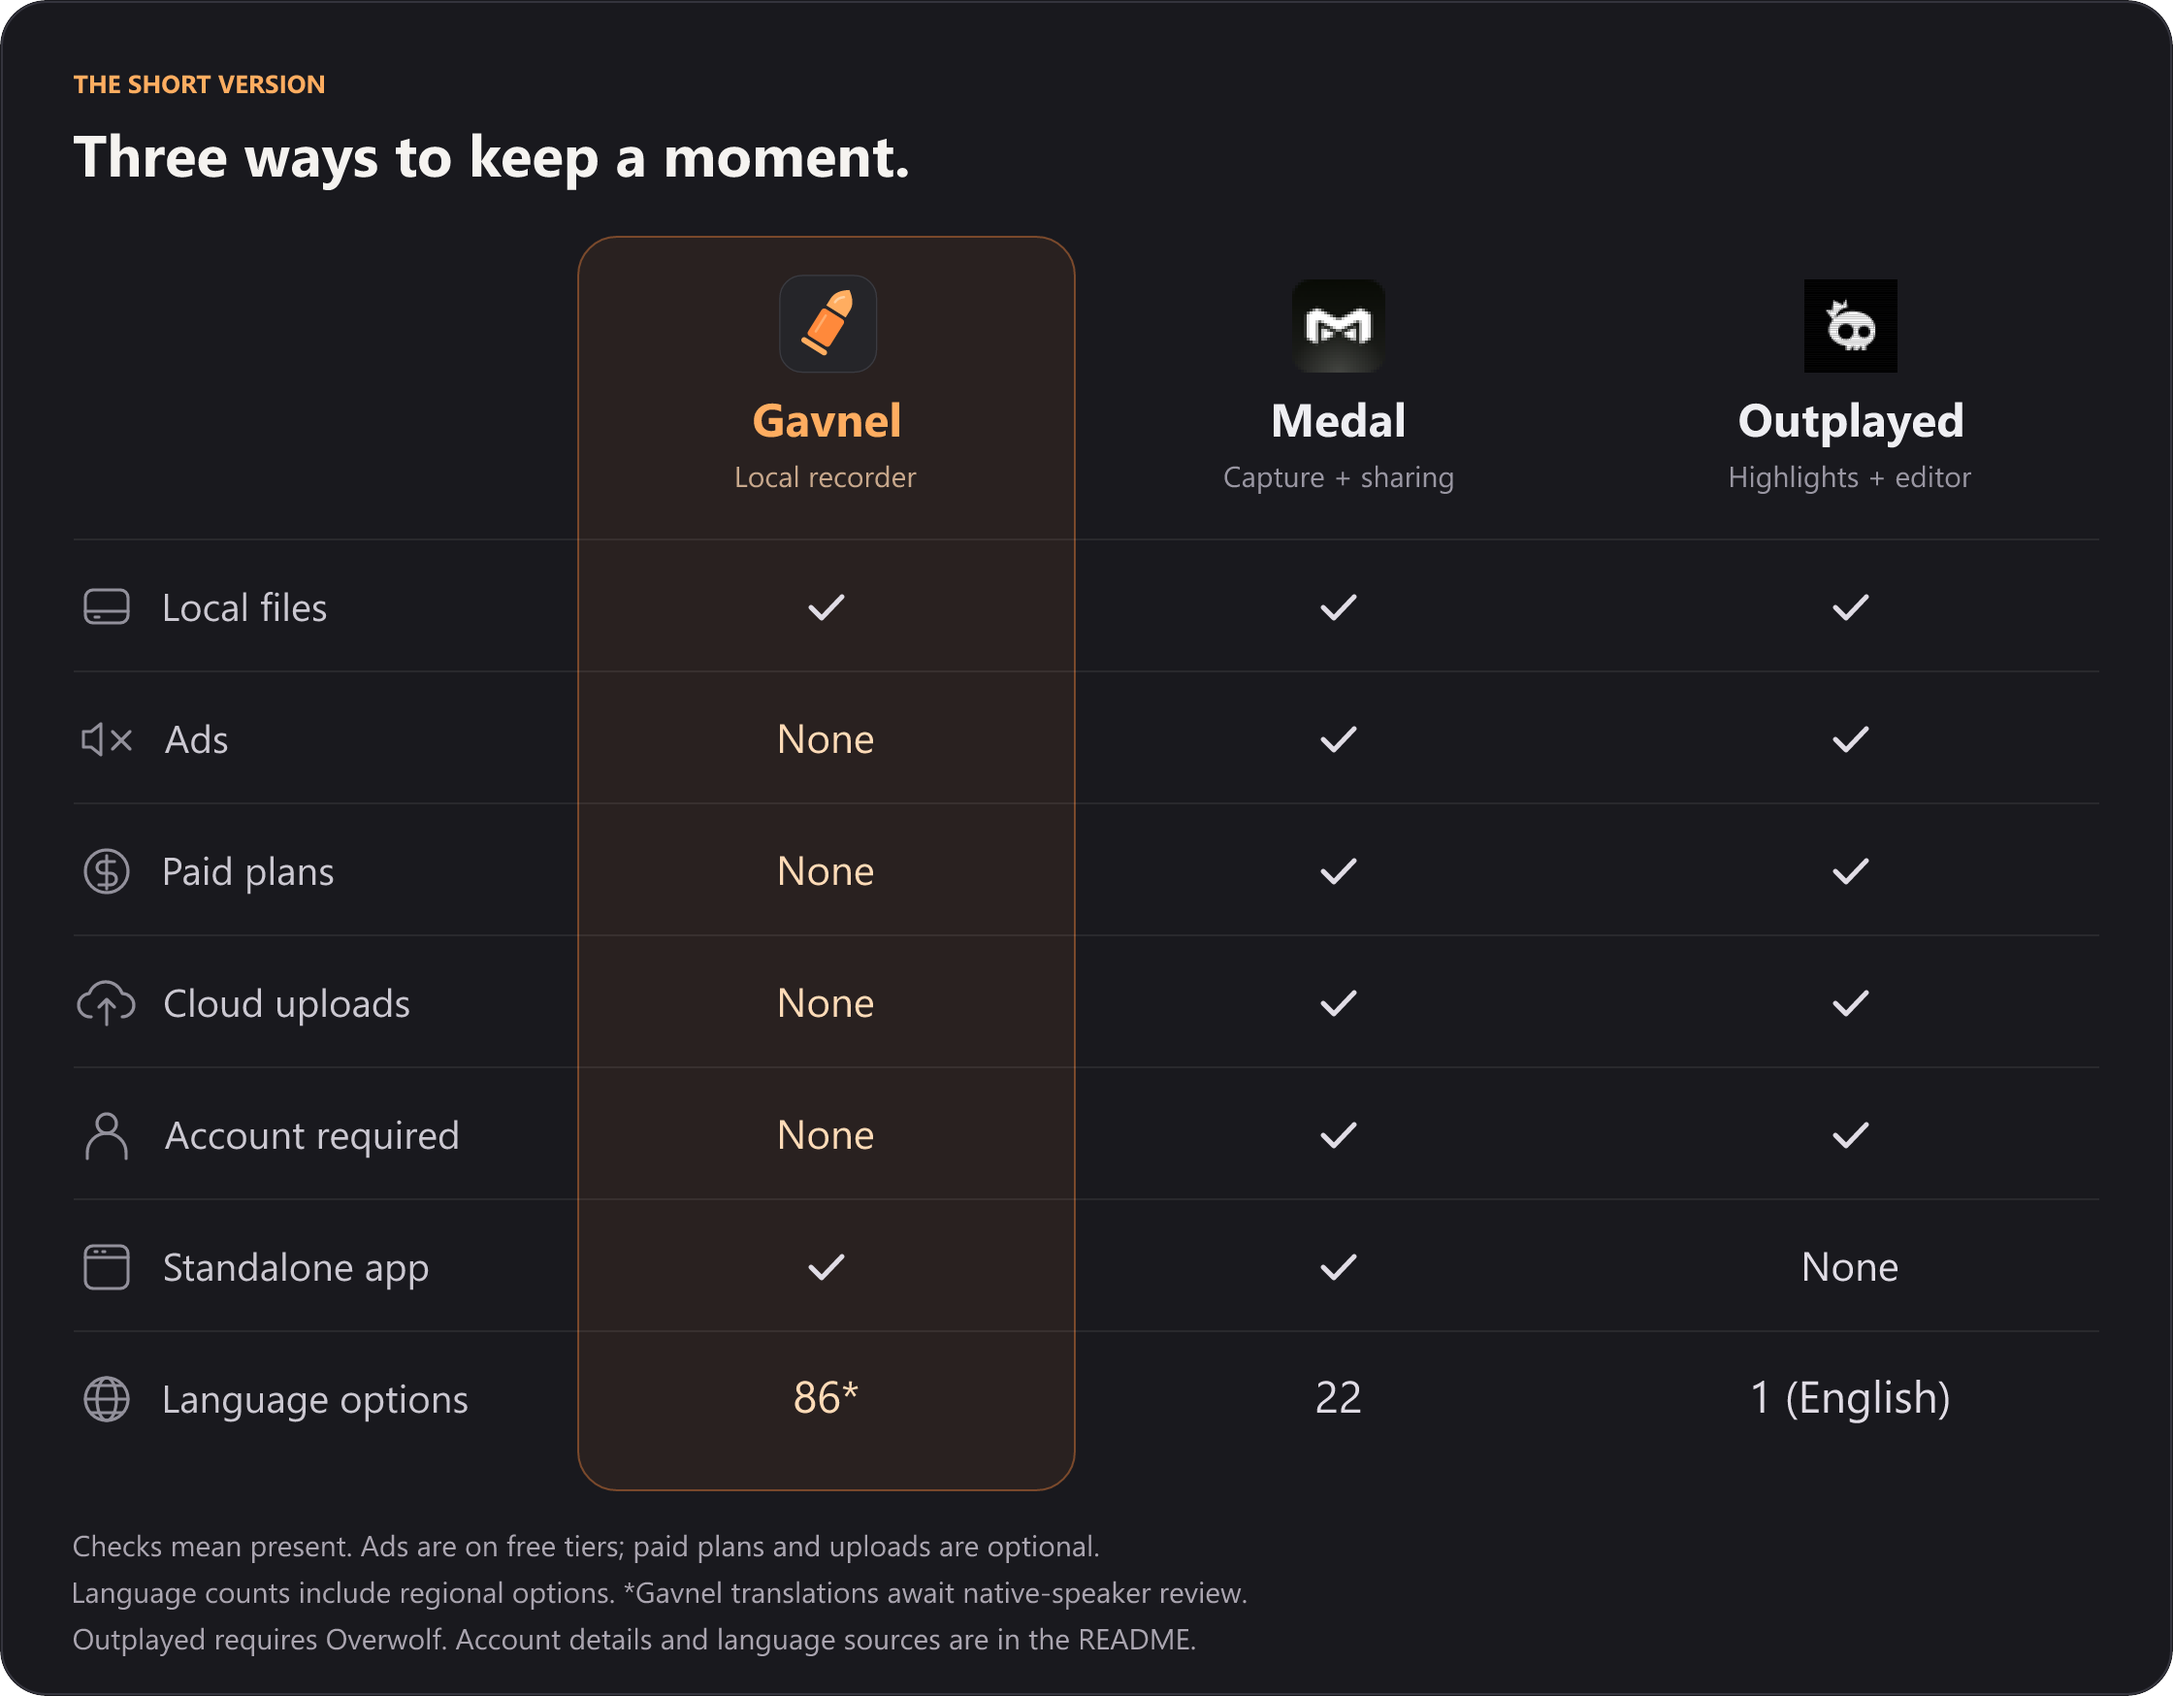
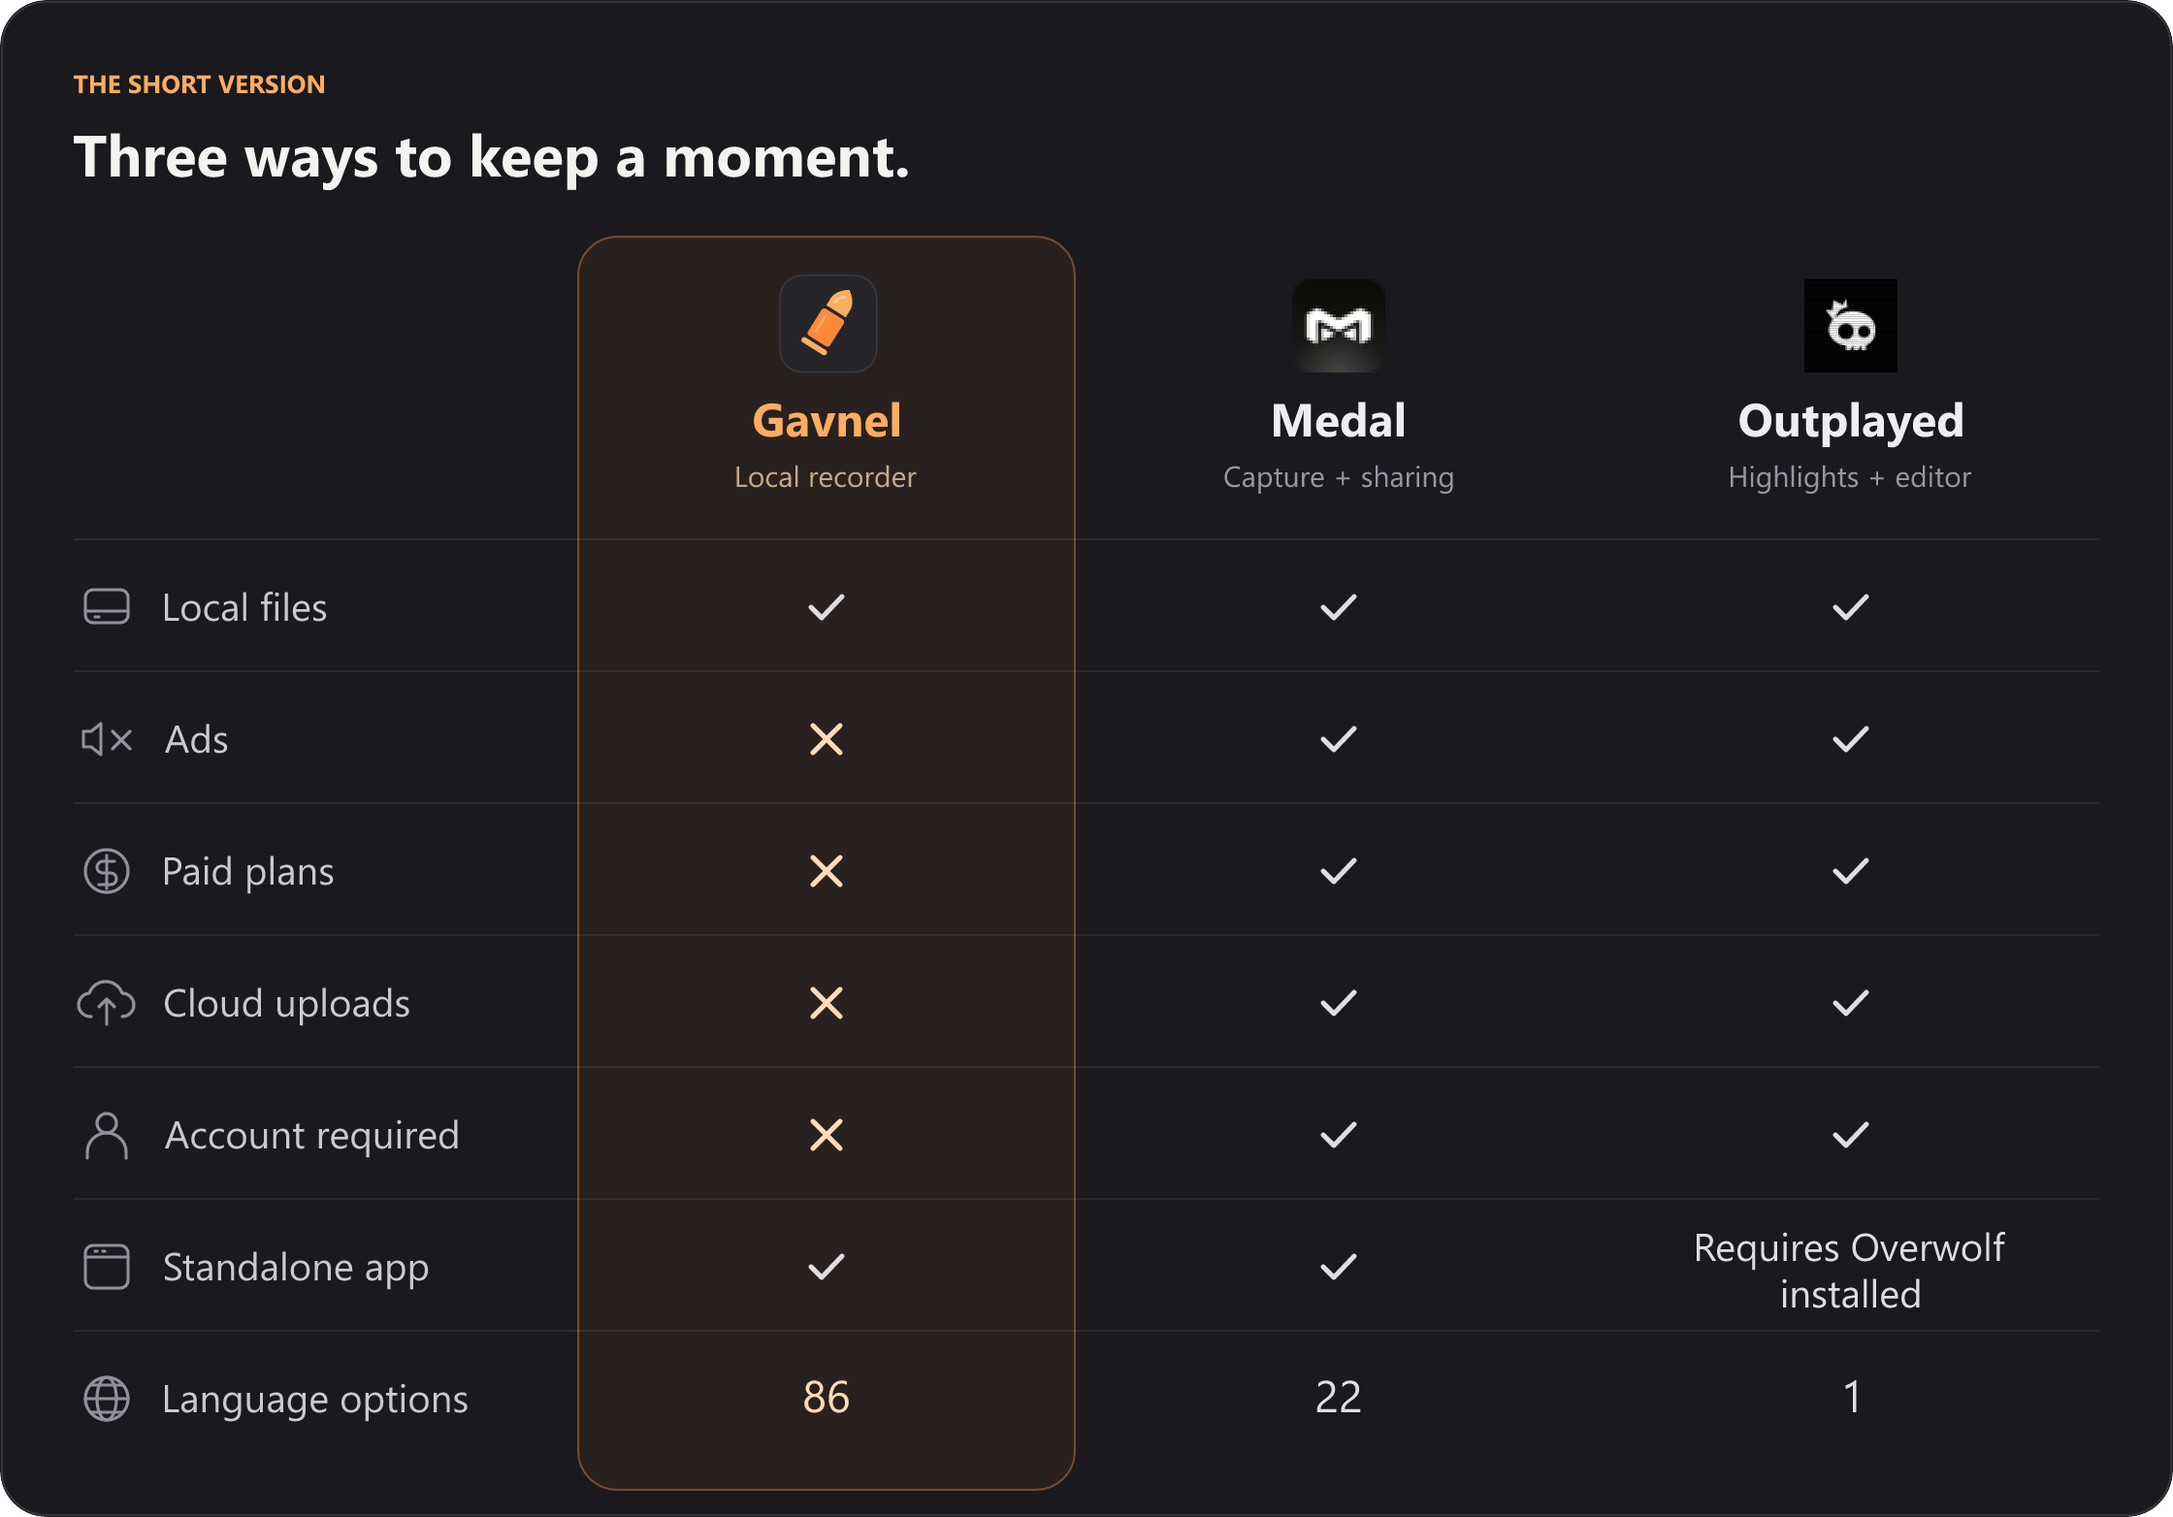
Simplify README comparison symbols and labels

diff --git a/README.md b/README.md
@@ -49,7 +49,7 @@ Medal and Outplayed are useful for people who want sharing tools, editors, or au
 **All three can save recordings locally.** The difference is what comes with that recording experience.
 
 <p align="center">
-  <img src="assets/readme/comparison.png" alt="Gavnel, Medal, and Outplayed comparison: all save locally. Gavnel has no ads, paid tier, or cloud uploads. Medal and Outplayed have free-tier ads, optional paid plans, and optional uploads. Gavnel needs no account; Medal and Outplayed require accounts. Gavnel and Medal are standalone; Outplayed requires Overwolf. Interface language options: Gavnel 86 including regional choices, with native-speaker review pending; Medal 22; Outplayed 1, English." width="100%">
+  <img src="assets/readme/comparison.png" alt="Gavnel, Medal, and Outplayed comparison: all save locally. Gavnel has no ads, paid tier, or cloud uploads. Medal and Outplayed have free-tier ads, optional paid plans, and optional uploads. Gavnel needs no account; Medal and Outplayed require accounts. Gavnel and Medal are standalone; Outplayed requires Overwolf to be installed. Interface language options: Gavnel 86 including regional choices, with native-speaker review pending; Medal 22; Outplayed 1, English." width="100%">
 </p>
 
 <details>
